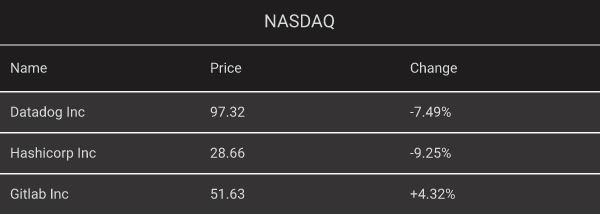
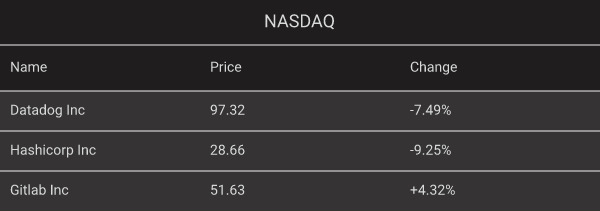
feat: support table cell style

diff --git a/src/charts/table_chart.rs b/src/charts/table_chart.rs
@@ -120,6 +120,30 @@ impl TableChart {
         if let Some(sub_title_height) = get_f32_from_value(&data, "sub_title_height") {
             self.sub_title_height = sub_title_height;
         }
+        if let Some(data) = data.get("cell_styles") {
+            if let Some(arr) = data.as_array() {
+                let mut cell_styles = vec![];
+                for item in arr.iter() {
+                    let mut style = TableCellStyle {
+                        ..Default::default()
+                    };
+                    if let Some(font_color) = get_color_from_value(item, "font_color") {
+                        style.font_color = Some(font_color);
+                    }
+                    if let Some(background_color) = get_color_from_value(item, "background_color") {
+                        style.background_color = Some(background_color);
+                    }
+                    if let Some(font_weight) = get_string_from_value(item, "font_weight") {
+                        style.font_weight = Some(font_weight);
+                    }
+                    if let Some(indexes) = get_usize_slice_from_value(item, "indexes") {
+                        style.indexes = indexes;
+                    }
+                    cell_styles.push(style);
+                }
+                self.cell_styles = cell_styles;
+            }
+        }
 
         if let Some(data) = data.get("data") {
             if let Some(arr) = data.as_array() {
@@ -348,6 +372,20 @@ impl TableChart {
         } else {
             self.spans.iter().map(|value| value * width).collect()
         };
+
+        let find_cell_style = |row: usize, column: usize| -> Option<&TableCellStyle> {
+            for cell_style in self.cell_styles.iter() {
+                if cell_style.indexes.len() != 2 {
+                    continue;
+                }
+                if cell_style.indexes[0] != row || cell_style.indexes[1] != column {
+                    continue;
+                }
+                return Some(cell_style);
+            }
+            None
+        };
+
         let mut top = 0.0;
         let body_background_color_count = self.body_background_colors.len();
         for (i, items) in self.data.iter().enumerate() {
@@ -385,15 +423,16 @@ impl TableChart {
                 height: row_height,
                 ..Default::default()
             });
-            c.line(Line {
-                color: Some(self.border_color),
-                stroke_width: 1.0,
-                top,
-                right: c.width(),
-                bottom: top,
-                ..Default::default()
-            });
-            top += 1.0;
+            if !self.border_color.is_transparent() {
+                c.line(Line {
+                    color: Some(self.border_color),
+                    stroke_width: 1.0,
+                    top,
+                    right: c.width(),
+                    bottom: top,
+                    ..Default::default()
+                });
+            }
             for (j, item) in items.iter().enumerate() {
                 // 已保证肯定有数据
                 let span_width = spans[j];
@@ -418,13 +457,7 @@ impl TableChart {
                 let mut cell_font_weight = font_weight.clone();
 
                 // 每个table cell的背景色
-                for cell_style in self.cell_styles.iter() {
-                    if cell_style.indexes.len() != 2 {
-                        continue;
-                    }
-                    if cell_style.indexes[0] != i || cell_style.indexes[1] != j {
-                        continue;
-                    }
+                if let Some(cell_style) = find_cell_style(i, j) {
                     // 有配置则设置
                     if let Some(value) = cell_style.font_color {
                         cell_font_color = value;
@@ -436,9 +469,9 @@ impl TableChart {
                         c.rect(Rect {
                             fill: Some(value),
                             left,
-                            top,
+                            top: top + 1.0,
                             width: span_width,
-                            height: row_height,
+                            height: row_height - 1.0,
                             ..Default::default()
                         });
                     }
@@ -506,7 +539,6 @@ mod tests {
             background_color: Some("#3bb357".into()),
             font_color: Some(("#fff").into()),
         }];
-
         assert_eq!(
             include_str!("../../asset/table_chart/basic.svg"),
             table_chart.svg().unwrap()
@@ -612,7 +644,30 @@ mod tests {
         );
         table_chart.title_text = "NASDAQ".to_string();
         table_chart.sub_title_text = "stock".to_string();
-        table_chart.text_aligns = vec![Align::Left, Align::Center, Align::Right];
+        table_chart.spans = vec![0.5, 0.3, 0.2];
+        let green = "#2d7c2b".into();
+        let red = "#a93b01".into();
+        table_chart.cell_styles = vec![
+            TableCellStyle {
+                indexes: vec![1, 2],
+                font_weight: Some("bold".to_string()),
+                background_color: Some(green),
+                ..Default::default()
+            },
+            TableCellStyle {
+                indexes: vec![2, 2],
+                font_weight: Some("bold".to_string()),
+                background_color: Some(green),
+                ..Default::default()
+            },
+            TableCellStyle {
+                indexes: vec![3, 2],
+                font_weight: Some("bold".to_string()),
+                background_color: Some(red),
+                ..Default::default()
+            },
+        ];
+        table_chart.text_aligns = vec![Align::Left, Align::Center, Align::Center];
         assert_eq!(
             include_str!("../../asset/table_chart/basic_grafana.svg"),
             table_chart.svg().unwrap()

diff --git a/src/charts/params.rs b/src/charts/params.rs
@@ -17,6 +17,28 @@ pub(crate) fn get_usize_from_value(value: &serde_json::Value, key: &str) -> Opti
     }
     None
 }
+pub(crate) fn get_usize_slice_from_value(
+    value: &serde_json::Value,
+    key: &str,
+) -> Option<Vec<usize>> {
+    if let Some(arr) = value.get(key) {
+        if let Some(values) = arr.as_array() {
+            return Some(
+                values
+                    .iter()
+                    .map(|item| {
+                        if let Some(v) = item.as_u64() {
+                            v as usize
+                        } else {
+                            0
+                        }
+                    })
+                    .collect(),
+            );
+        }
+    }
+    None
+}
 
 pub(crate) fn get_f32_from_value(value: &serde_json::Value, key: &str) -> Option<f32> {
     if let Some(width) = value.get(key) {

diff --git a/tests/table_chart.rs b/tests/table_chart.rs
@@ -30,7 +30,15 @@ fn table_chart() {
             ]
         ],
         "header_font_weight": "bold",
-        "text_aligns": ["left", "center", "right"]
+        "text_aligns": ["left", "center", "right"],
+        "cell_styles": [
+            {
+                "font_color": "#fff", 
+                "font_weight": "bold", 
+                "background_color": "#2d7c2b",
+                "indexes": [1, 2] 
+            }
+        ]
     }"###,
     )
     .unwrap();

diff --git a/TODO.md b/TODO.md
@@ -5,4 +5,4 @@
 - [x] fontdue与fontdb中对于bold等类型字体名称不一致(light, bold等的处理)
 - [ ] series label format的方法支持更多类型，{a}：系列名。{c}：数据值。{d}：百分比。
 - [x] 填充曲线图中文本输出顺序调整
-- [ ] table支持定义每一个格的背景色、字体颜色
+- [x] table支持定义每一个格的背景色、字体颜色
